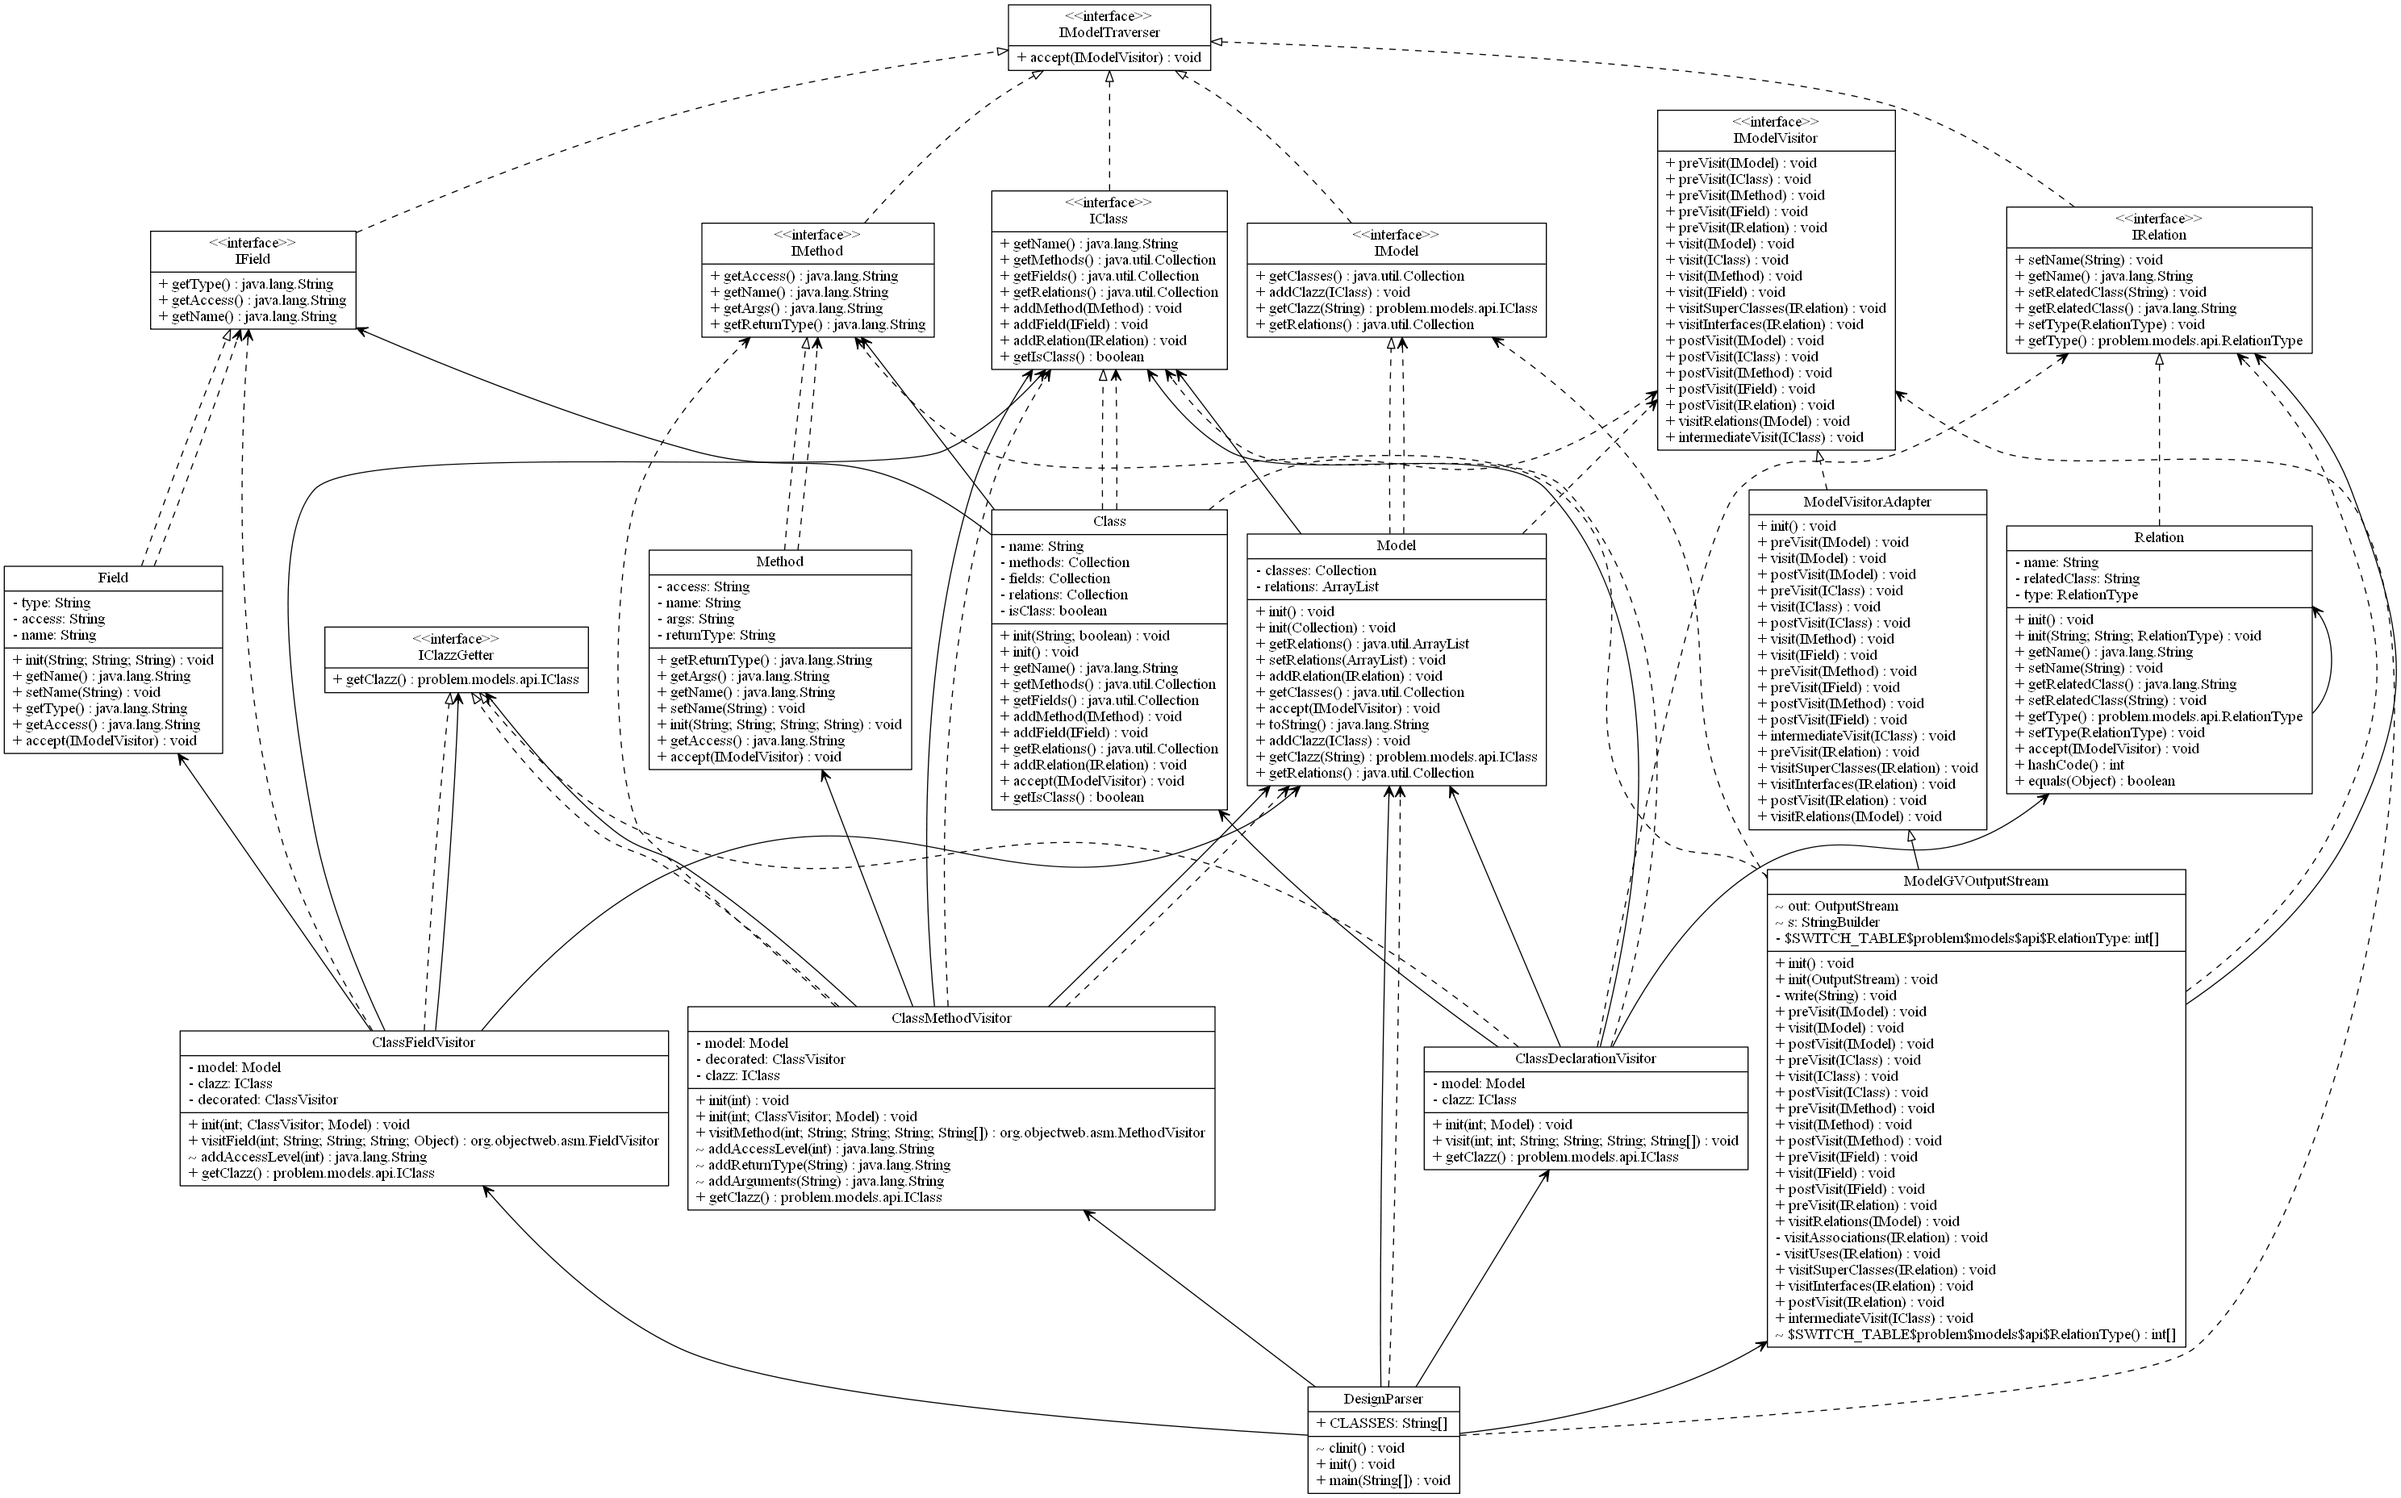
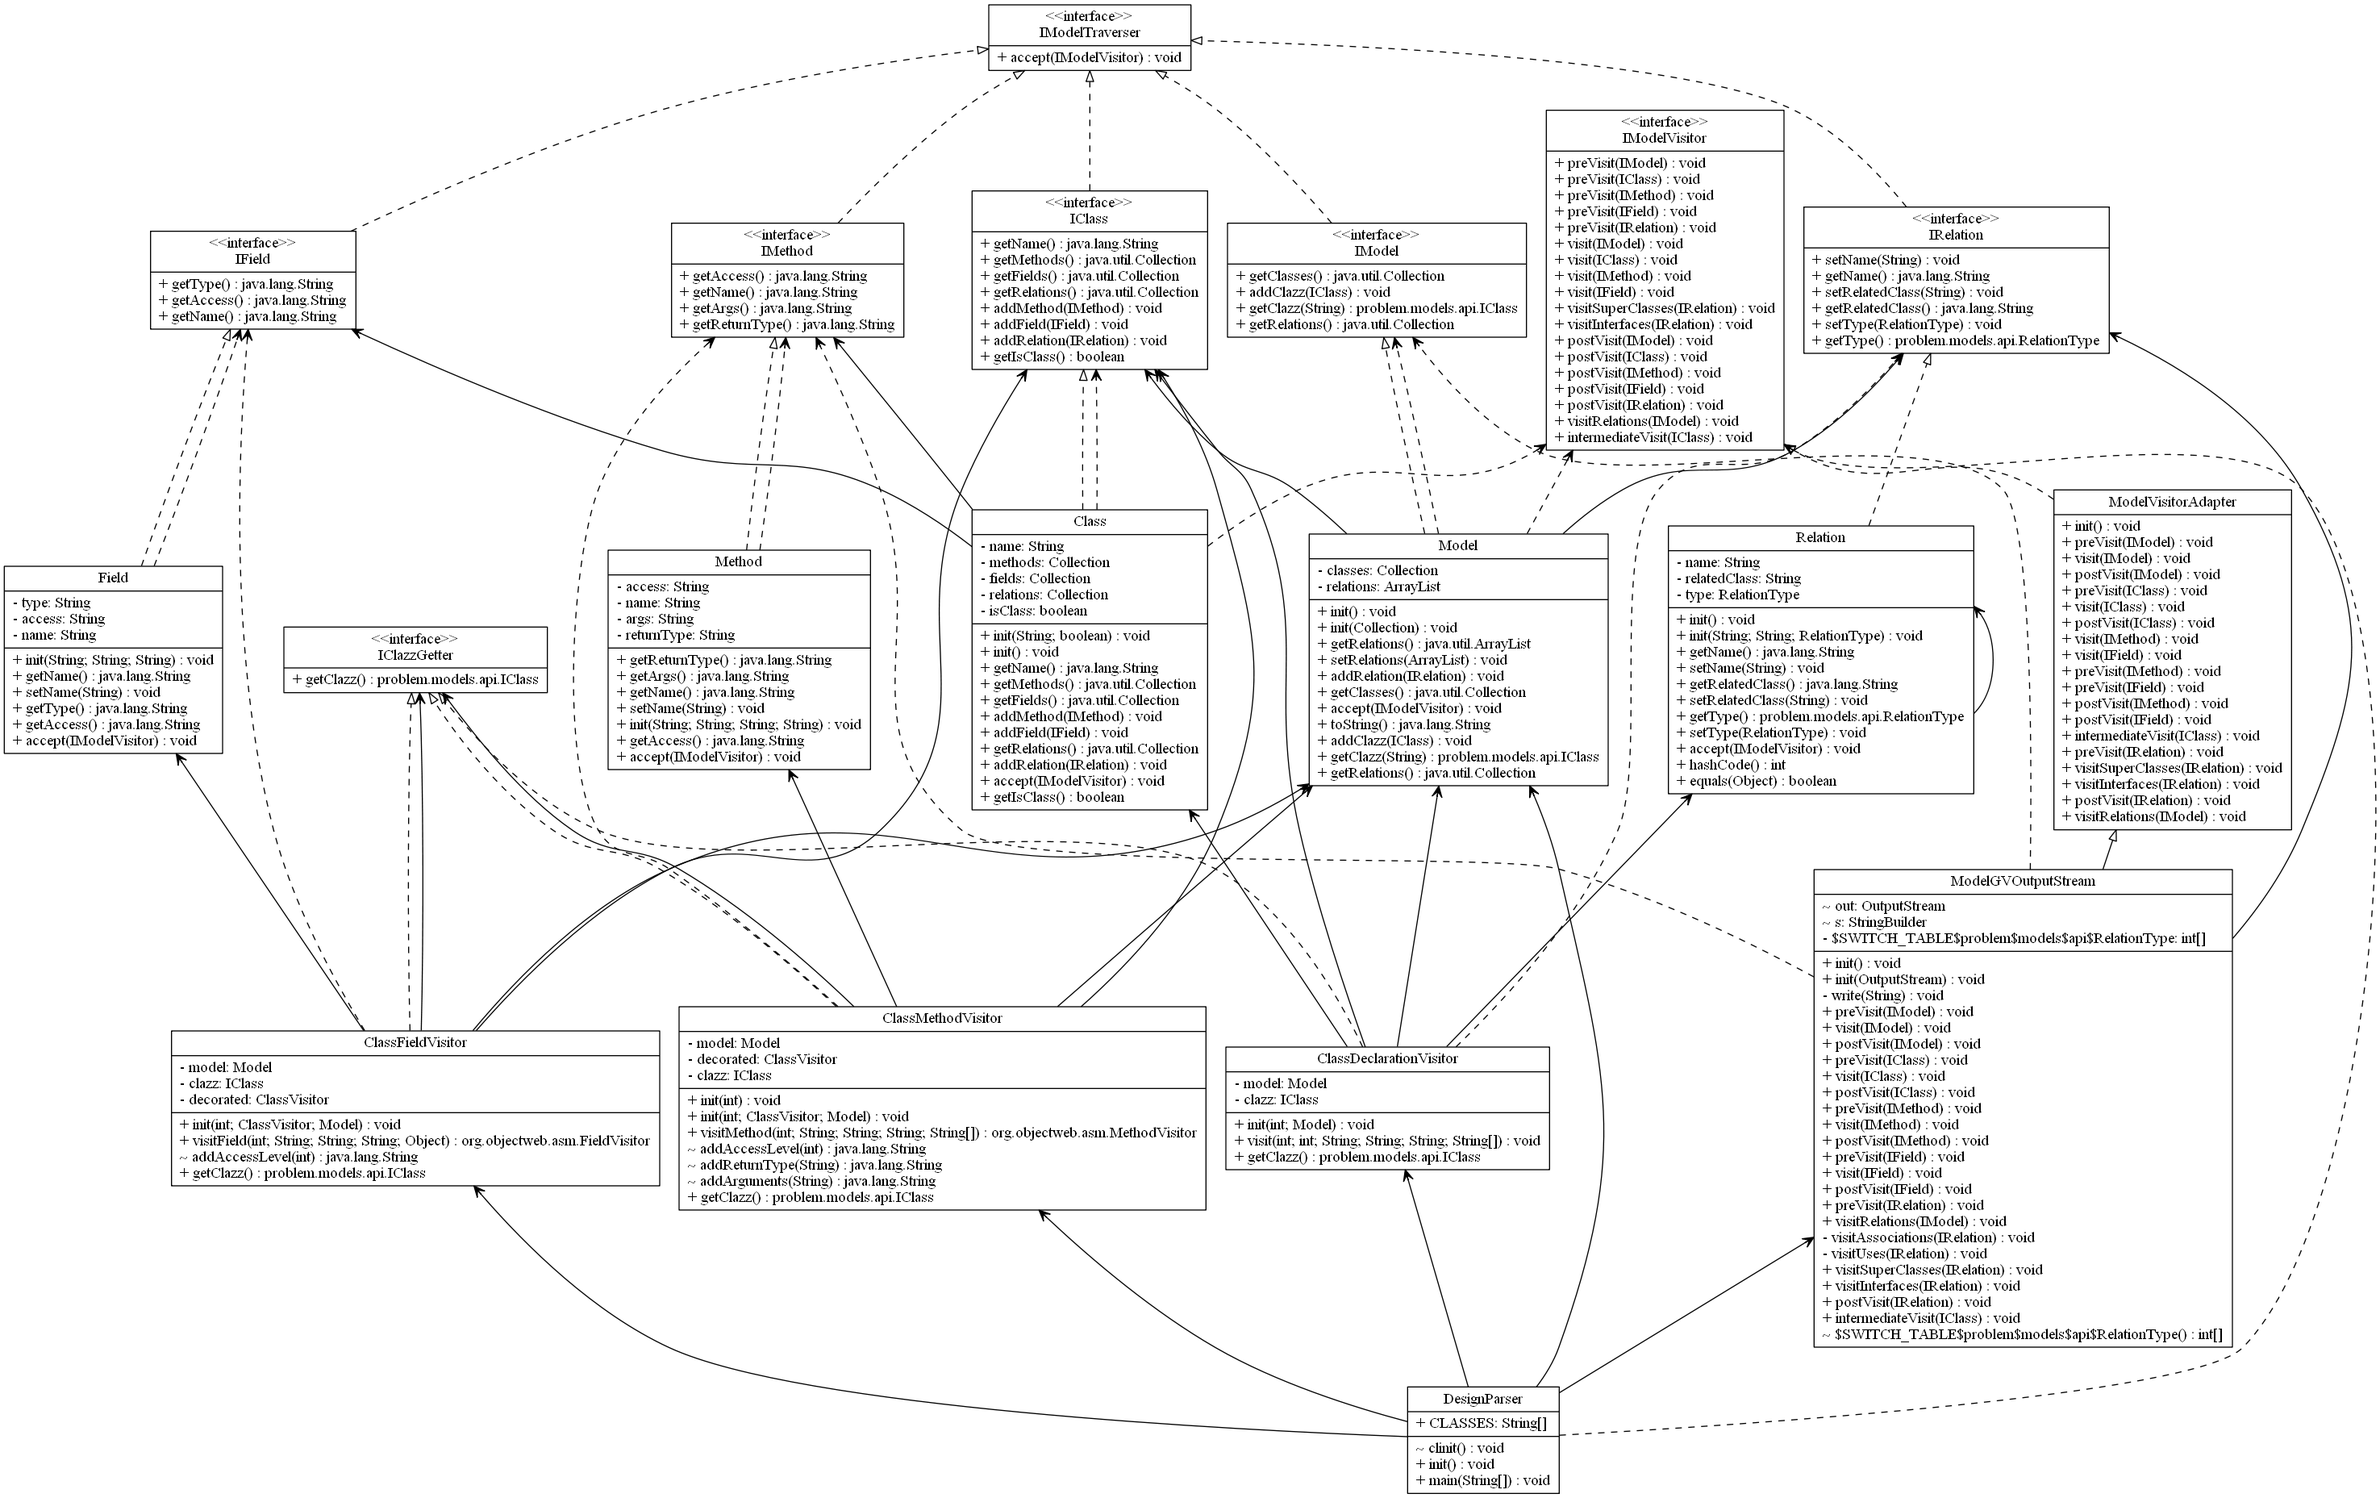
Remove weaker arrows
if there is a uses and an associations arrow, only have the associations
arrow

diff --git a/src/problem/models/impl/Model.java b/src/problem/models/impl/Model.java
@@ -11,6 +11,7 @@ import problem.model.visitor.IModelVisitor;
 import problem.models.api.IClass;
 import problem.models.api.IModel;
 import problem.models.api.IRelation;
+import problem.models.api.RelationType;
 
 public class Model implements IModel {
 
@@ -57,6 +58,16 @@ public class Model implements IModel {
 			for (int i = 0; i < this.relations.size(); i++) {
 				if (r.equals(this.relations.get(i))) {
 					return;
+				}
+				
+				if(r.getName().equals(this.relations.get(i).getName()) && r.getRelatedClass().equals(this.relations.get(i).getRelatedClass())){
+					if (r.getType().equals(RelationType.uses) && this.relations.get(i).getType().equals(RelationType.association)){
+						return;
+					}else if(r.getType().equals(RelationType.association) && this.relations.get(i).getType().equals(RelationType.uses)){
+						this.relations.remove(i);
+						this.relations.add(r);
+						return;
+					}
 				}
 			}
 			this.relations.add(r);
